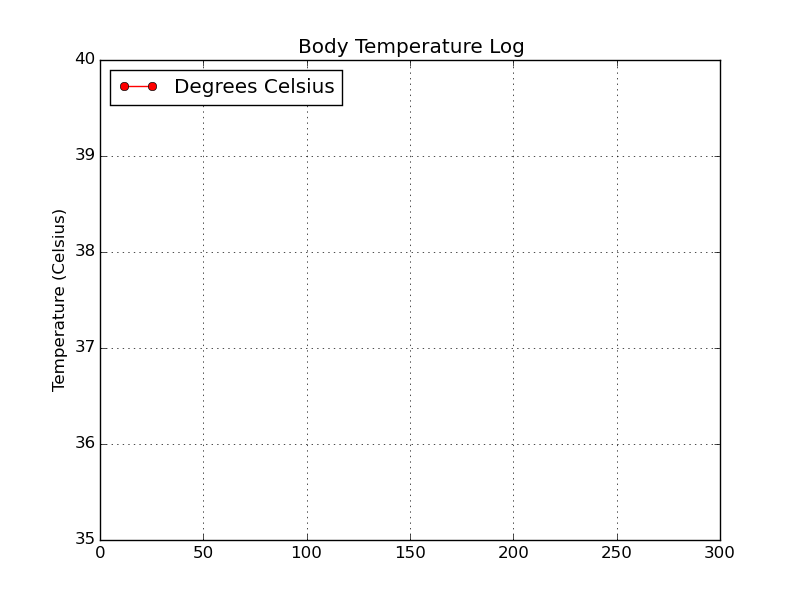
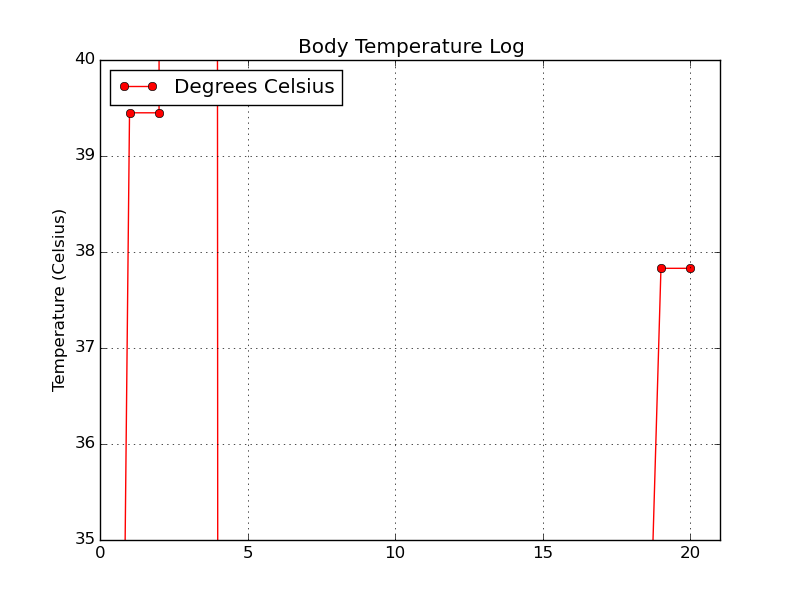
Graphing function improved along with further simulation conduction

diff --git a/IEGRUpdate.py b/IEGRUpdate.py
@@ -27,6 +27,7 @@ tempArray = []
 counter = 0
 averageT = 0
 averageP = 0
+index = []
 
 conditionPA = 0
 conditionTA = 1
@@ -34,13 +35,15 @@ conditionTA = 1
 ctime = datetime.datetime.strftime(datetime.datetime.now(),
                                    '%Y-%m-%d %H:%M:%S')
 
+ser = serial.Serial('/dev/ttyACM0', 115200)
+
 '''End Analysis Information'''
 
 #<!-------------------------------------------->
 '''Plot Information'''
 
 def makeFig():
-    plt.xlim(0, 300)
+    plt.xlim(0, len(dataTemp))
     plt.ylim(35, 40)
     plt.title('Body Temperature Log')
     plt.grid(True)
@@ -160,30 +163,43 @@ def attach_file(msg, afile):
 #<!----------------------------------------------------> Generate Message for Email
 
 def tempMsg(ctime, averageP, conditionP, msgP, averageT, conditionT, msgT ): #NEED TO CHANGE VAR NAME
-    msg = 'As of %s your average pulse rate was %d, which is %s. Messages regarding your pulse: %s. Your body temperature was %s Celsius, which is %s. Message regarding your body temperature: %s. '\
+    msg = 'As of %s your average pulse rate was %d, which is %s. Remarks regarding your pulse: %s. Your body temperature was %s Celsius, which is %s. Remarks regarding your body temperature: %s. '\
         % (ctime, averageP, conditionP, msgP, averageT, conditionT, msgT )
     str(msg)
     global msg
     return msg
 
 
-while counter < 2: #debug counter
-	arduinoData = '42,64'
+while counter <= 20: #debug counter
+	arduinoData = ser.readline()
+	print 'Data', arduinoData #Debug purpose
+	#arduinoData = '42,64' #Single data Simulation0
+	#if counter == 0: #Continuous data Simulation
+	#	arduinoData = '42,63'
+	#elif counter == 1:
+	#	arduinoData = '38,61'
+	#elif counter == 2:
+	#	arduinoData = '12,58'
 	arduinoData = arduinoData.split(',')
 	dataTemp.append(arduinoData[0])
 	dataHeart.append(arduinoData[1])
 	arduinoData = []
 	counter += 1
-	
+
+makeFig()
+
 for i in range(0,len(dataHeart)):
 	dataHeart[i] = float(dataHeart[i])
 for i in range(0,len(dataTemp)):
 	dataTemp[i] = float(dataTemp[i])
 for i in range(0,0): #STAYS AT 0,0 FOR SIMULATION PURPOSE
 	dataTemp.pop[i]
-for i in range(1,len(dataTemp)): #NEED TO VALIDATE IF ITERATION WILL GO OUT OF RANGE
+for i in range(1,len(dataTemp)): 
 	if(dataTemp[i] < ((0.0891*(math.log(i))+36.621)+1.5) or dataTemp[i] < ((0.0891*(math.log(i))+36.621)-1.5)):
-		dataTemp.pop()
+		index.append(i)
+
+dataTemp = np.delete(dataTemp, index)
+print dataTemp
 
 averageT = np.mean(dataTemp)
 averageP = np.mean(dataHeart)
@@ -216,9 +232,9 @@ print 'Average Temperature:',averageT
 print 'Average Pulse:',averageP
 print 'Temperature Condition:',conditionT 
 print 'Pulse Condition:',conditionP
-print 'Temperature Message: ',dataBank[conditionTR][conditionTA]
-print 'Pulse Message: ',dataBank[conditionPR][conditionPA]
-makeFig()
+print 'Temperature Remarks: ',dataBank[conditionTR][conditionTA]
+print 'Pulse Remarks: ',dataBank[conditionPR][conditionPA]
+
 
 msgT = dataBank[conditionTR][conditionTA]
 msgP = dataBank[conditionPR][conditionPA]
